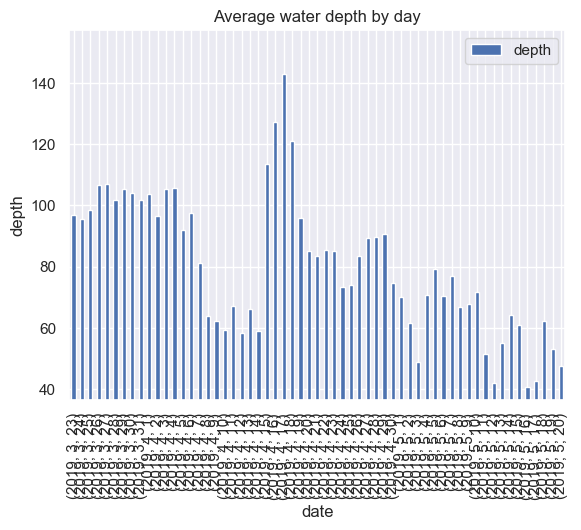
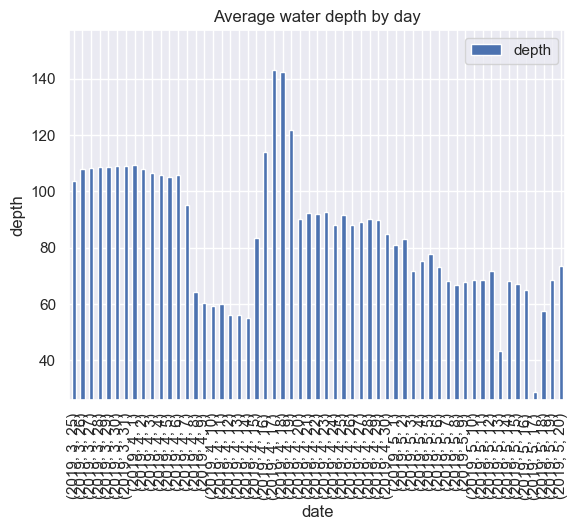
Removed hourly graph and 1std outliers. Avg depth/day based on cleaned data

diff --git a/plot_waterdepth.py b/plot_waterdepth.py
@@ -2,6 +2,7 @@ import argparse
 import csv
 from datetime import datetime
 import matplotlib
+import matplotlib.pyplot as plt
 import seaborn as sns
 
 import dateutil.tz
@@ -52,12 +53,13 @@ def build_graphs(data, show_graphs=False):
     if not show_graphs:
         matplotlib.use("Agg")  # allows figures to be generated on headless server
 
-    import matplotlib.pyplot as plt
+    # import matplotlib.pyplot as plt
     sns.set(style="darkgrid")
 
     # from pandas.plotting import register_matplotlib_converters
     # register_matplotlib_converters()
 
+    # ---------- FIGURE ----------
     # raw data - vanilla matplotlib
     plt.plot(x, y, label="raw")
 
@@ -74,68 +76,59 @@ def build_graphs(data, show_graphs=False):
     # fig, ax = plt.subplots()#ystart, yend = ax.get_ylim()
     # plt.yticks(np.arange(0, yend, 1))
     plt.xticks(rotation='vertical')
-    plt.xlabel("date")
-    plt.ylabel("depth")
-    plt.title("Water depth readings")
-    plt.legend()
+    init_plot("Water depth readings", "date", "depth")
     plt.savefig("graphs/fig_sensor.png", bbox_inches='tight')
 
     # why cannot remove this?
     if show_graphs:
         plt.show()
 
+    # ---------- FIGURE ----------
     # avg per hour - using pandas DF
-    df = pd.DataFrame({"time": x, "depth": y})
-    avg_series = df.groupby(df["time"].dt.hour)["depth"].aggregate(np.mean)  # returns a series
-    plt.bar(avg_series.index, avg_series, label="avg / hr", width=0.6)
-    plt.xlabel("hour")
-    plt.ylabel("depth")
-    plt.title("Average water depth during the day")
-    plt.legend()
-    plt.ylim(max(np.amin(avg_series) - (np.amin(avg_series) * 0.1), 0),
-             np.amax(avg_series) + (np.amax(avg_series) * 0.1))
-    plt.savefig("graphs/fig_avg_hourly.png", bbox_inches='tight')
+    #df = pd.DataFrame({"time": x, "depth": y})
+    #avg_series = df.groupby(df["time"].dt.hour)["depth"].aggregate(np.mean)  # returns a series
+    #plt.bar(avg_series.index, avg_series, label="avg / hr", width=0.6)
+    #init_plot("Average water depth during the day", "hour", "depth")
+    #plt.ylim(max(np.amin(avg_series) - (np.amin(avg_series) * 0.1), 0),
+    #         np.amax(avg_series) + (np.amax(avg_series) * 0.1))
+    #plt.savefig("graphs/fig_avg_hourly.png", bbox_inches='tight')
 
-    # avg per day - using pandas DF re-indexing (and pandas plot wrapper)
+    # ---------- FIGURE ----------
+    # drop values outside 1 std dev - using pandas DF
+    #df = pd.DataFrame({"time": x, "depth": y})
+    #df.set_index("time", inplace=True)
+    #df = drop_1std(df)
+    #df.plot()
+    #init_plot("Cleaned sensor values (mean +/- 1 std)", "date", "depth")
+    #ymax = df["depth"].max()
+    #ymin = df["depth"].min()
+    #plt.ylim(max(0, (ymin - (ymin * 0.1))), ymax + (ymax * 0.1))
+    #plt.savefig("graphs/fig_clean_sensor.png", bbox_inches='tight')
+
+    # ---------- FIGURE ----------
+    # drop values outside 1 rolling std dev - using pandas DF
     df = pd.DataFrame({"time": x, "depth": y})
     df.set_index("time", inplace=True)
+    df = drop_1_rolling_std(df)
+    df.plot()
+    init_plot("Cleaned sensor values (rolling mean +/- 1 rolling std)", "date", "depth")
+    ymax = df["depth"].max()
+    ymin = df["depth"].min()
+    plt.ylim(max(0, (ymin - (ymin * 0.1))), ymax + (ymax * 0.1))
+    plt.savefig("graphs/fig_clean_sensor.png", bbox_inches='tight')
+
+    # ---------- FIGURE ----------
+    # avg per day - using pandas DF re-indexing (and pandas plot wrapper)
+    #df = pd.DataFrame({"time": x, "depth": y})
+    #df.set_index("time", inplace=True)
     df = df.groupby([df.index.year, df.index.month, df.index.day]).aggregate(np.mean)
-    ax = df.plot(kind="bar")  # uses plot method of df
-    ax.set_xlabel("date")
-    ax.set_ylabel("depth")
-    plt.title("Average water depth by day")
+    df.plot(kind="bar")  # uses plot method of df
+    init_plot("Average water depth by day", "date", "depth")
     ymax = df["depth"].max()
     ymin = df["depth"].min()
     plt.ylim(max(0, (ymin - (ymin * 0.1))), ymax + (ymax * 0.1))
     plt.savefig("graphs/fig_avg_daily.png", bbox_inches='tight')
 
-    # drop values outside 1 std dev - using pandas DF
-    df = pd.DataFrame({"time": x, "depth": y})
-    df.set_index("time", inplace=True)
-    df = drop_1std(df)
-    ax = df.plot()
-    ax.set_xlabel("date")
-    ax.set_ylabel("depth")
-    plt.title("Cleaned sensor values (mean +/- 1 std)")
-    ymax = df["depth"].max()
-    ymin = df["depth"].min()
-    plt.ylim(max(0, (ymin - (ymin * 0.1))), ymax + (ymax * 0.1))
-
-    plt.savefig("graphs/fig_clean_sensor.png", bbox_inches='tight')
-
-    # drop values outside 1 rolling std dev - using pandas DF
-    df = pd.DataFrame({"time": x, "depth": y})
-    df.set_index("time", inplace=True)
-    df = drop_1_rolling_std(df)
-    ax = df.plot()
-    ax.set_xlabel("date")
-    ax.set_ylabel("depth")
-    plt.title("Cleaned sensor values (rolling mean +/- 1 rolling std)")
-    ymax = df["depth"].max()
-    ymin = df["depth"].min()
-    plt.ylim(max(0, (ymin - (ymin * 0.1))), ymax + (ymax * 0.1))
-
-    plt.savefig("graphs/fig_clean_sensor2.png", bbox_inches='tight')
     if show_graphs:
         plt.show()
 
@@ -153,11 +146,15 @@ def drop_1_rolling_std(df):
     rolling_mean = df.rolling(window=win_size).mean()
     rolling_std = df.rolling(window=win_size).std()
 
-    #print(rolling_mean)
-    #print(rolling_std)
-
     return df[
         df["depth"].between(rolling_mean["depth"] - rolling_std["depth"], rolling_mean["depth"] + rolling_std["depth"])]
+
+
+def init_plot(title, xlabel, ylabel):
+    plt.xlabel(xlabel)
+    plt.ylabel(ylabel)
+    plt.title(title)
+    plt.legend()
 
 
 if __name__ == "__main__":
